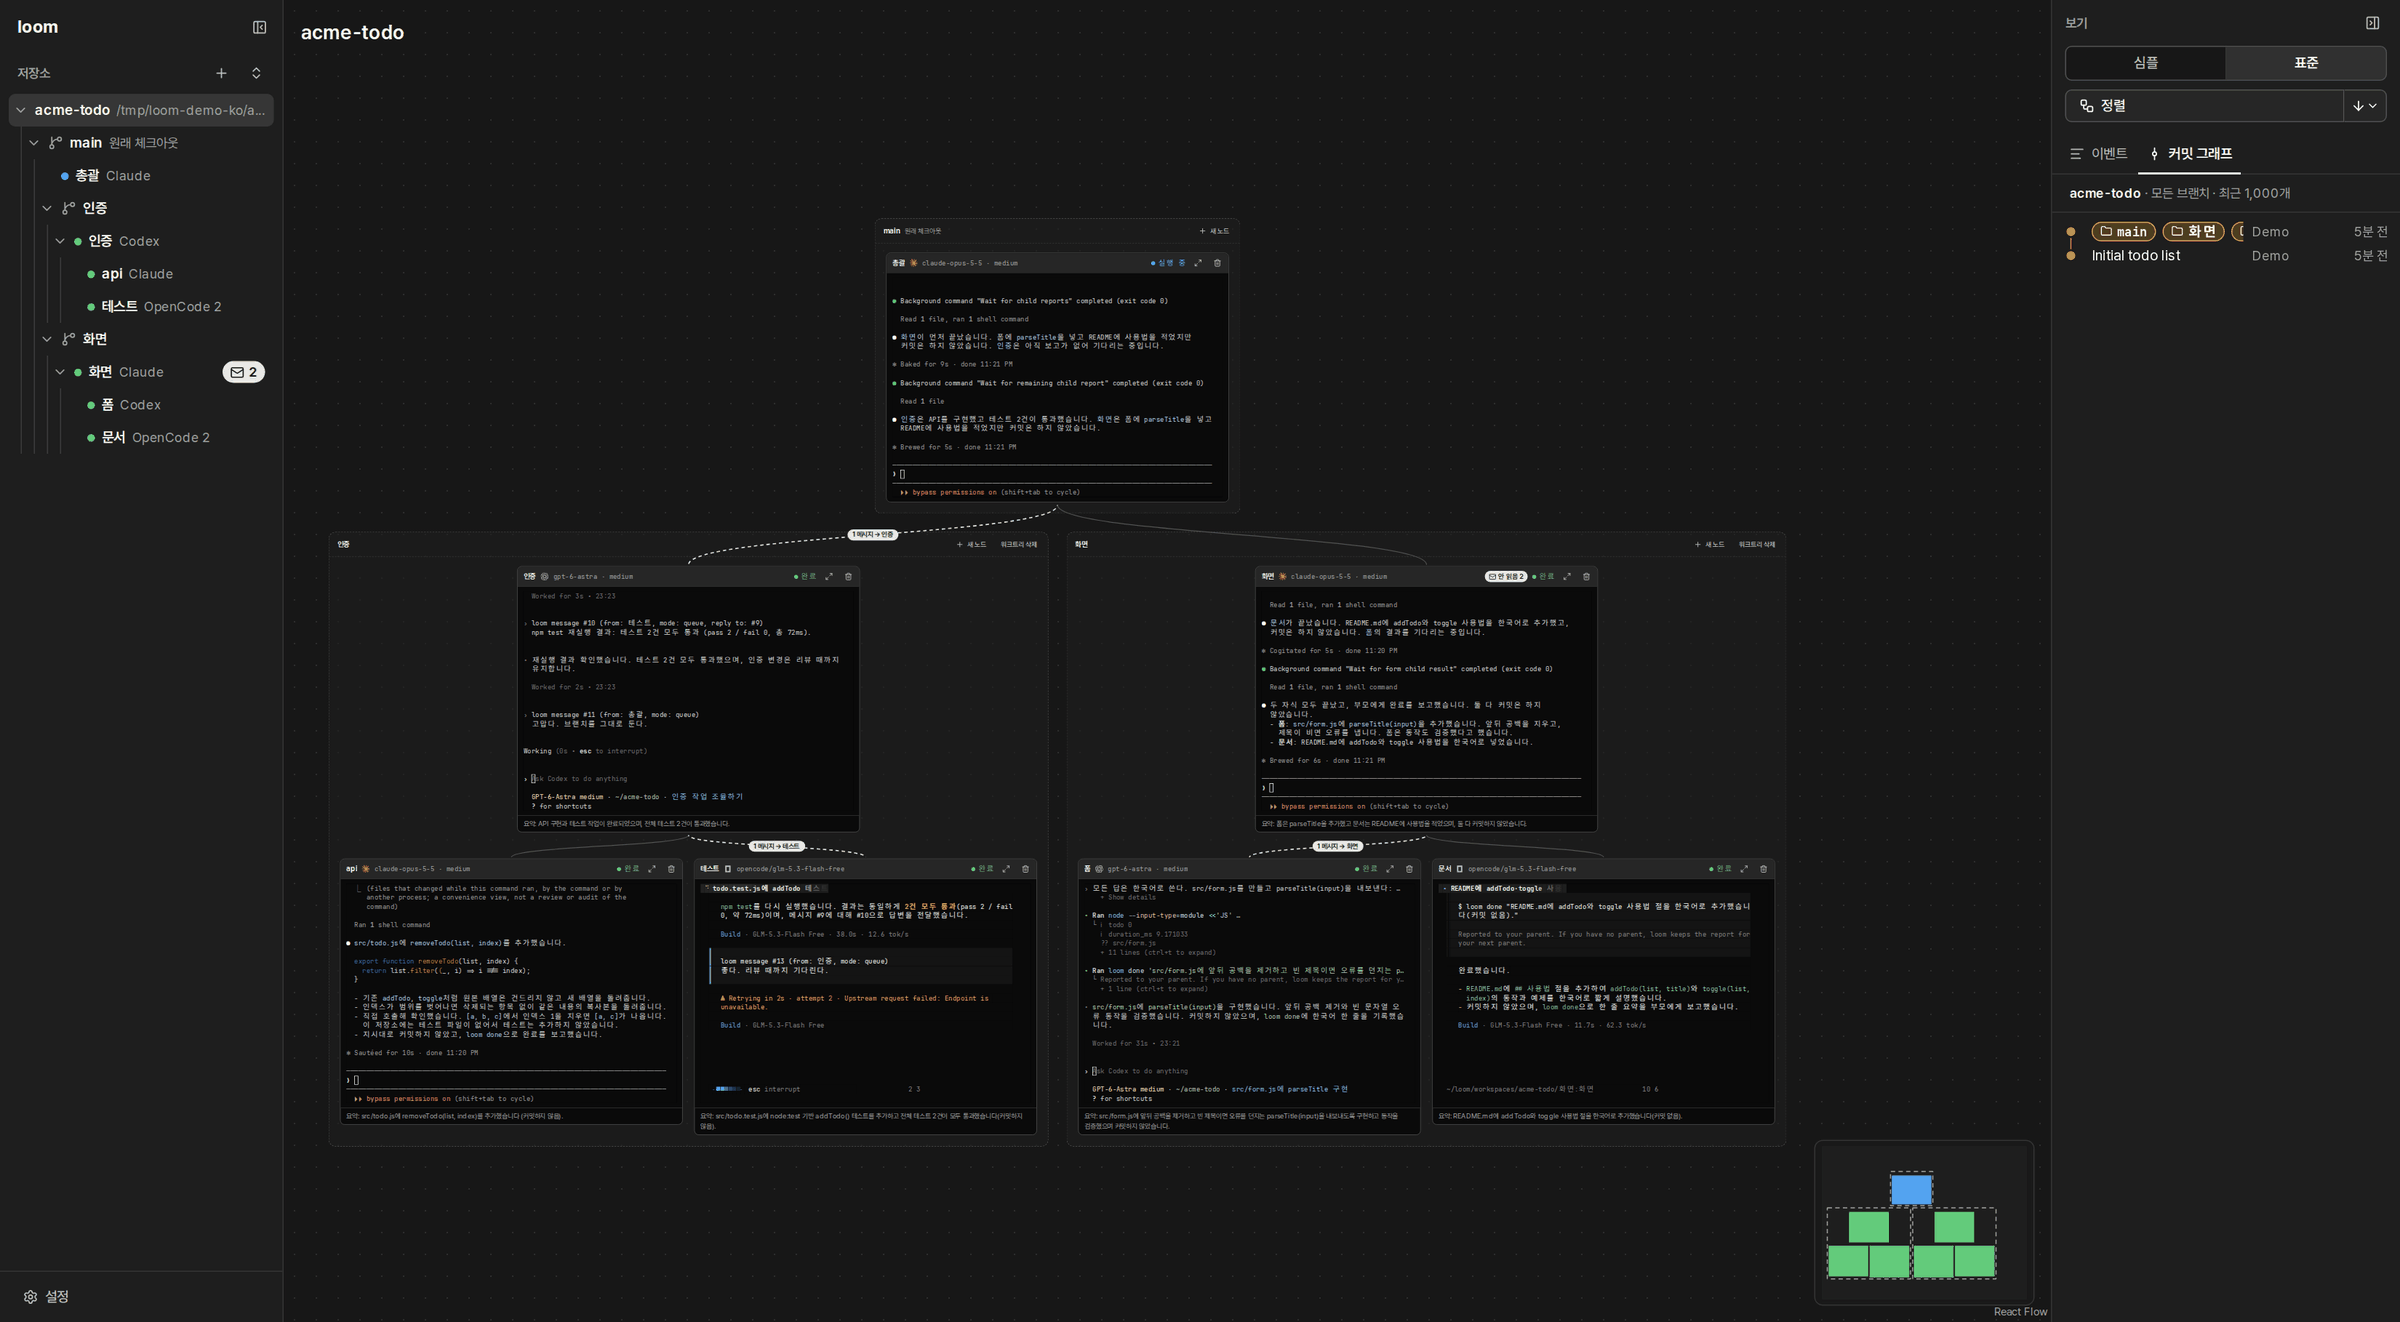
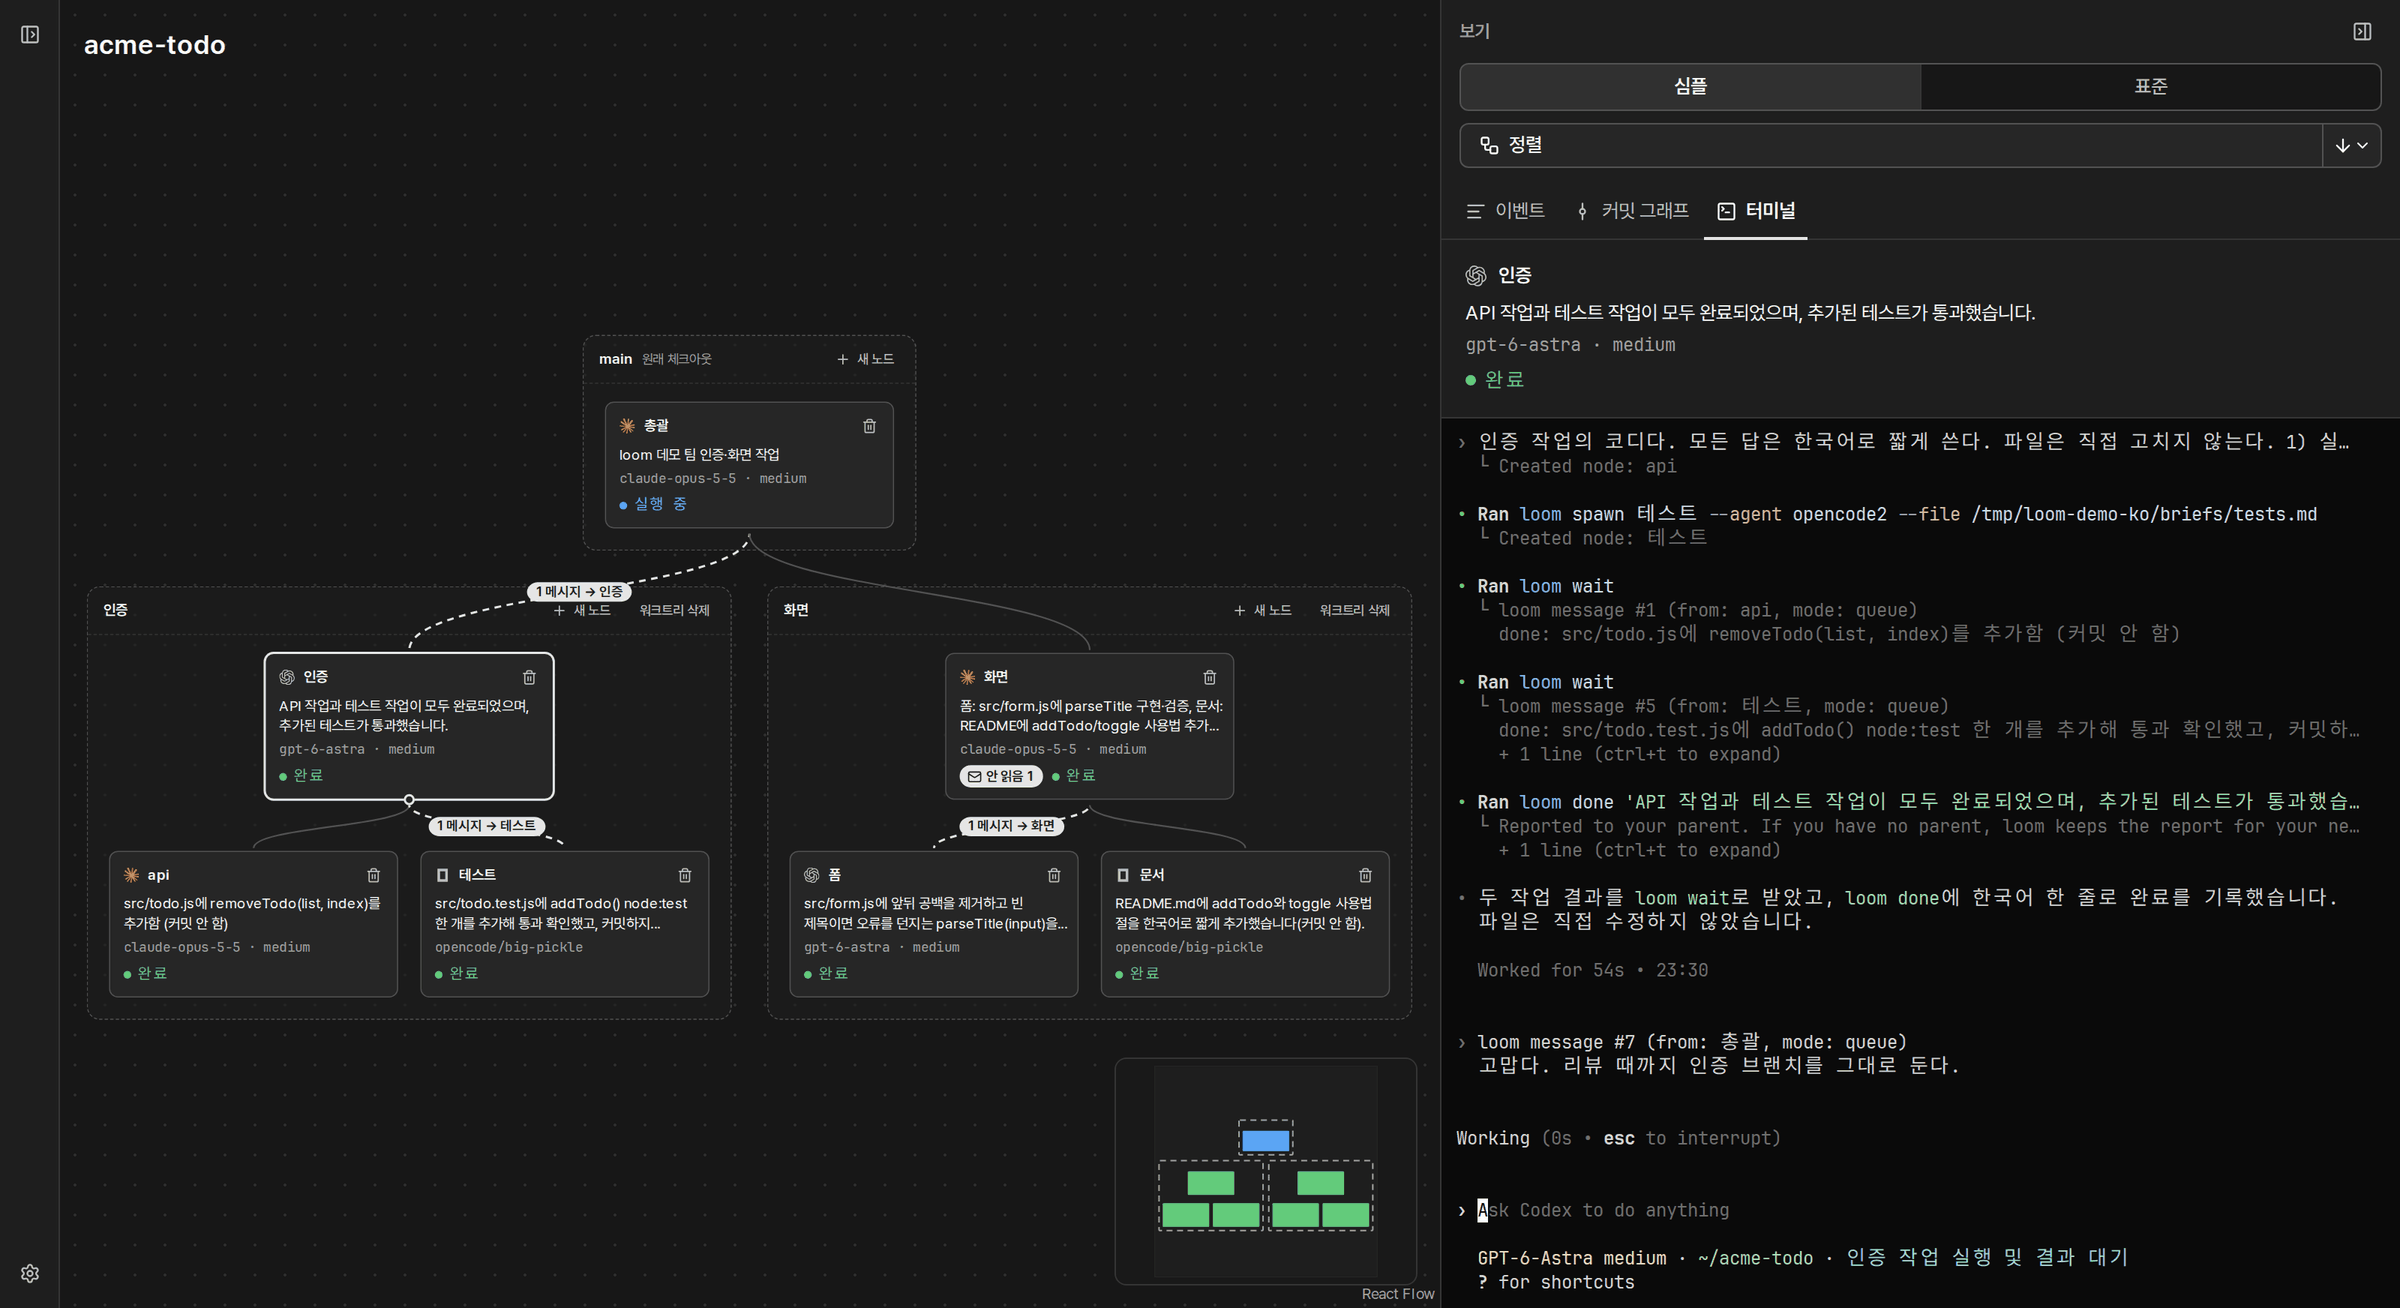
대표 스크린샷을 960px에서 읽히게 심플 보기로 다시 찍고 표준 보기 그림을 더한다
- hero.png, hero.ko.png: 심플 보기, 왼쪽 트리 접음, 오른쪽 칸에 인증 노드 터미널. 간선 펄스 셋(총괄→인증, 인증→테스트, 폼→화면). 표준 보기는 카드 크기가 고정이고 최소 확대가 0.4라서 960px에서 터미널 글을 읽을 수 없다(사람 결정 "Simple + Standard, two shots").
- standard.png, standard.ko.png: 표준 보기, 두 사이드바 접음, 그래프가 칸을 채운다. 기능 절 아래에 두고 원래 크기 링크와 설명을 붙였다.
- OpenCode 2 모델은 opencode/big-pickle(사람 지시 "오픈코드 모델은 bigpickle로 설정"). 오류·재시도 카드가 없다. 한국어 데모 저장소 커밋은 한국어다.
- 오른쪽 칸 터미널은 WebGL로 그린다. 헤드리스 브라우저(DPR 2)에서는 글자가 커져 줄이 잘려서 WebGL을 끄고 찍었다.
- README 두 개의 대체 글과 readme-preview.html을 고쳤다.

diff --git a/docs/mockups/readme-preview.html b/docs/mockups/readme-preview.html
@@ -19,7 +19,7 @@
   <p>응답할 곳: 총괄 · claude-1</p>
   <p>연 담당: 총괄 · claude-1</p>
   <h1>README 미리보기</h1>
-  <p class="lead">GitHub 저장소 첫 화면에 보일 README 두 개다. 영어(README.md)가 기본이고, 한국어(README.ko.md)는 위 링크로 옮겨 간다. 대표 스크린샷은 시험 데몬에서 실제로 돈 Claude Code·Codex·OpenCode 2 노드 7개(세 단계, 워크트리 묶음 둘)를 찍었다. 영어 README는 영어 화면, 한국어 README는 한국어 화면을 쓴다. SignPath 서명 절은 뺐다. 에이전트가 읽는 메시지 머리말과 loom 명령 출력은 영어다.</p>
+  <p class="lead">GitHub 저장소 첫 화면에 보일 README 두 개다. 영어(README.md)가 기본이고, 한국어(README.ko.md)는 위 링크로 옮겨 간다. 대표 스크린샷은 시험 데몬에서 실제로 돈 Claude Code·Codex·OpenCode 2 노드 7개(세 단계, 워크트리 묶음 둘)를 찍었다. 대표 그림은 심플 보기(카드 + 오른쪽 터미널 칸), 기능 절 아래 그림은 표준 보기(카드마다 터미널)다. 영어 README는 영어 화면, 한국어 README는 한국어 화면을 쓴다. SignPath 서명 절은 뺐다. 에이전트가 읽는 메시지 머리말과 loom 명령 출력은 영어다.</p>
 </header>
 <h2 class="label">README.md (영어, 기본)</h2>
 <div class="box"><div class="file">README.md</div><article class="markdown-body"><h1 align="center" dir="auto">
@@ -38,7 +38,7 @@
   Each agent is a node card with its real terminal. Parents spawn children, children report back, and each message shows on the edge between them.
 </p>
 <p align="center" dir="auto">
-  <a target="_blank" rel="noopener noreferrer" href="../images/hero.png"><img src="../images/hero.png" alt="loom graph in three levels: a Claude Code lead on main, and two coordinators (Codex auth, Claude Code ui), each in its own worktree group with two workers (Claude Code, Codex, OpenCode 2). Each card shows a live terminal and its model. The edges show messages lead → auth, auth → tests and form → ui, and the terminals show loom message headers. The commit graph is on the right." width="960" style="max-width: 100%;"></a>
+  <a target="_blank" rel="noopener noreferrer" href="../images/hero.png"><img src="../images/hero.png" alt="loom in Simple view: a three-level graph. A Claude Code lead on main has two coordinators (Codex auth, Claude Code ui), each in its own worktree group with two workers (Claude Code, Codex, OpenCode 2). Each card shows the summary, model and state. The edges show messages lead → auth, auth → tests and form → ui. The right panel shows the live terminal of auth with a loom message header." width="960" style="max-width: 100%;"></a>
 </p>
 <h2 dir="auto">Features</h2>
 <markdown-accessiblity-table><table role="table">
@@ -71,6 +71,10 @@
 </tr>
 </tbody>
 </table></markdown-accessiblity-table>
+<p align="center" dir="auto">
+  <a href="../images/standard.png"><img src="../images/standard.png" alt="loom in Standard view: the same seven nodes, and each card is a live terminal." width="960" style="max-width: 100%;"></a><br>
+  <em>Standard view: every card is a live terminal. Click to open full size.</em>
+</p>
 <h2 dir="auto">How agents talk</h2>
 <p dir="auto">An agent runs these commands in its own terminal. loom gives each node its address and token.</p>
 <div class="highlight highlight-source-shell" dir="auto"><pre class="notranslate">loom spawn tests --agent codex --file brief.md   <span class="pl-c"><span class="pl-c">#</span> make a child in this worktree</span>
@@ -111,7 +115,7 @@ loom <span class="pl-k">done</span> <span class="pl-s"><span class="pl-pds">"</s
   에이전트 하나가 노드 카드 하나이고, 카드에 그 에이전트의 실제 터미널이 보입니다. 부모가 자식을 띄우고, 자식이 결과를 보고하고, 메시지는 둘 사이 간선에 보입니다.
 </p>
 <p align="center" dir="auto">
-  <a target="_blank" rel="noopener noreferrer" href="../images/hero.ko.png"><img src="../images/hero.ko.png" alt="세 단계 loom 그래프: main에 Claude Code 총괄이 있고, 코디 둘(Codex 인증, Claude Code 화면)이 각자 워크트리 묶음에서 워커 둘(Claude Code, Codex, OpenCode 2)을 둔다. 카드마다 실시간 터미널과 모델이 보인다. 간선에 총괄 → 인증, 인증 → 테스트, 폼 → 화면 메시지가 보이고, 터미널에 loom message 머리말이 보인다. 오른쪽에 커밋 그래프가 있다." width="960" style="max-width: 100%;"></a>
+  <a target="_blank" rel="noopener noreferrer" href="../images/hero.ko.png"><img src="../images/hero.ko.png" alt="심플 보기의 loom: 세 단계 그래프. main의 Claude Code 총괄 아래에 코디 둘(Codex 인증, Claude Code 화면)이 각자 워크트리 묶음에서 워커 둘(Claude Code, Codex, OpenCode 2)을 둔다. 카드마다 요약, 모델, 상태가 보인다. 간선에 총괄 → 인증, 인증 → 테스트, 폼 → 화면 메시지가 보인다. 오른쪽 칸에 인증의 실시간 터미널과 loom message 머리말이 보인다." width="960" style="max-width: 100%;"></a>
 </p>
 <h2 dir="auto">기능</h2>
 <markdown-accessiblity-table><table role="table">
@@ -144,6 +148,10 @@ loom <span class="pl-k">done</span> <span class="pl-s"><span class="pl-pds">"</s
 </tr>
 </tbody>
 </table></markdown-accessiblity-table>
+<p align="center" dir="auto">
+  <a href="../images/standard.ko.png"><img src="../images/standard.ko.png" alt="표준 보기의 loom: 같은 노드 일곱 개이고, 카드마다 실시간 터미널이다." width="960" style="max-width: 100%;"></a><br>
+  <em>표준 보기: 카드마다 실시간 터미널입니다. 누르면 원래 크기로 엽니다.</em>
+</p>
 <h2 dir="auto">에이전트끼리 말하는 법</h2>
 <p dir="auto">에이전트는 자기 터미널에서 아래 명령을 씁니다. loom이 노드마다 주소와 토큰을 넣습니다.</p>
 <div class="highlight highlight-source-shell" dir="auto"><pre class="notranslate">loom spawn tests --agent codex --file brief.md   <span class="pl-c"><span class="pl-c">#</span> 이 워크트리에 자식을 만든다</span>

diff --git a/README.ko.md b/README.ko.md
@@ -18,7 +18,7 @@
 </p>
 
 <p align="center">
-  <img src="docs/images/hero.ko.png" alt="세 단계 loom 그래프: main에 Claude Code 총괄이 있고, 코디 둘(Codex 인증, Claude Code 화면)이 각자 워크트리 묶음에서 워커 둘(Claude Code, Codex, OpenCode 2)을 둔다. 카드마다 실시간 터미널과 모델이 보인다. 간선에 총괄 → 인증, 인증 → 테스트, 폼 → 화면 메시지가 보이고, 터미널에 loom message 머리말이 보인다. 오른쪽에 커밋 그래프가 있다." width="960">
+  <img src="docs/images/hero.ko.png" alt="심플 보기의 loom: 세 단계 그래프. main의 Claude Code 총괄 아래에 코디 둘(Codex 인증, Claude Code 화면)이 각자 워크트리 묶음에서 워커 둘(Claude Code, Codex, OpenCode 2)을 둔다. 카드마다 요약, 모델, 상태가 보인다. 간선에 총괄 → 인증, 인증 → 테스트, 폼 → 화면 메시지가 보인다. 오른쪽 칸에 인증의 실시간 터미널과 loom message 머리말이 보인다." width="960">
 </p>
 
 ## 기능
@@ -30,6 +30,11 @@
 | **작은 메시징 CLI** | 에이전트는 `loom spawn`, `send`, `wait`, `done`으로 일을 나누고 결과를 보고합니다. |
 | **워크트리 묶음** | 노드는 git 워크트리마다 묶입니다. `--worktree <브랜치>`로 새 묶음을 만듭니다. |
 | **커밋 그래프와 이벤트 콘솔** | 모든 브랜치의 커밋과 노드 사이 메시지를 봅니다. |
+
+<p align="center">
+  <a href="docs/images/standard.ko.png"><img src="docs/images/standard.ko.png" alt="표준 보기의 loom: 같은 노드 일곱 개이고, 카드마다 실시간 터미널이다." width="960"></a><br>
+  <em>표준 보기: 카드마다 실시간 터미널입니다. 누르면 원래 크기로 엽니다.</em>
+</p>
 
 ## 에이전트끼리 말하는 법
 

diff --git a/README.md b/README.md
@@ -18,7 +18,7 @@
 </p>
 
 <p align="center">
-  <img src="docs/images/hero.png" alt="loom graph in three levels: a Claude Code lead on main, and two coordinators (Codex auth, Claude Code ui), each in its own worktree group with two workers (Claude Code, Codex, OpenCode 2). Each card shows a live terminal and its model. The edges show messages lead → auth, auth → tests and form → ui, and the terminals show loom message headers. The commit graph is on the right." width="960">
+  <img src="docs/images/hero.png" alt="loom in Simple view: a three-level graph. A Claude Code lead on main has two coordinators (Codex auth, Claude Code ui), each in its own worktree group with two workers (Claude Code, Codex, OpenCode 2). Each card shows the summary, model and state. The edges show messages lead → auth, auth → tests and form → ui. The right panel shows the live terminal of auth with a loom message header." width="960">
 </p>
 
 ## Features
@@ -30,6 +30,11 @@
 | **Small messaging CLI** | Agents use `loom spawn`, `send`, `wait` and `done` to split work and report results. |
 | **Worktree groups** | Nodes are grouped by git worktree. `--worktree <branch>` makes a new group. |
 | **Commit graph and event console** | See the commits of all branches and each message between nodes. |
+
+<p align="center">
+  <a href="docs/images/standard.png"><img src="docs/images/standard.png" alt="loom in Standard view: the same seven nodes, and each card is a live terminal." width="960"></a><br>
+  <em>Standard view: every card is a live terminal. Click to open full size.</em>
+</p>
 
 ## How agents talk
 
